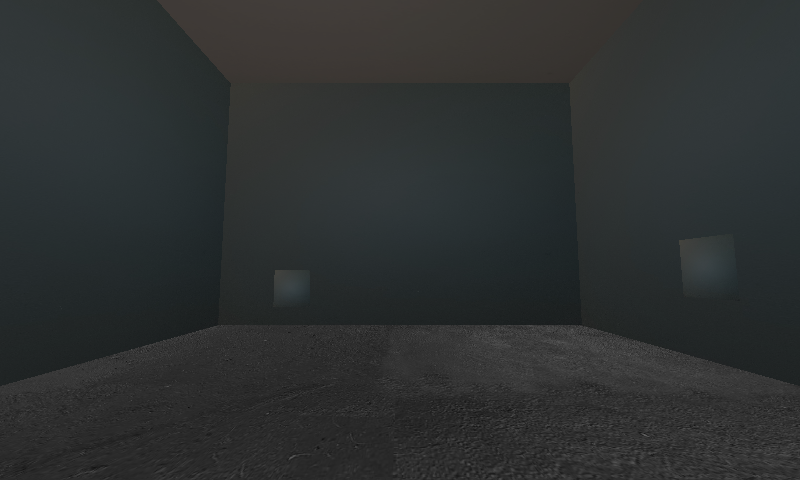
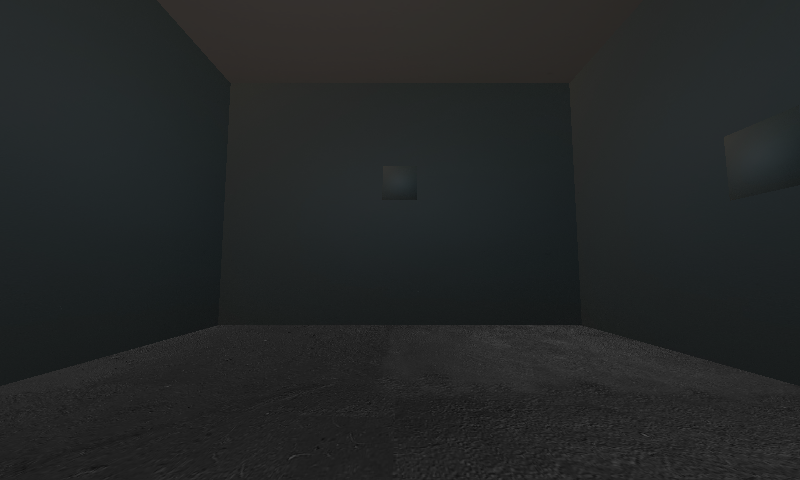
before fix for last failing test

Changed region(s): [[0.8438, 0.5, 0.9062, 0.5938], [0.3438, 0.5625, 0.375, 0.625]]

diff --git a/ExploringGame.Tests/RoomLightingGroupTests.cs b/ExploringGame.Tests/RoomLightingGroupTests.cs
@@ -1,5 +1,7 @@
 using ExploringGame.GeometryBuilder.Shapes;
 using ExploringGame.GeometryBuilder.Shapes.Furniture;
+using ExploringGame.GeometryBuilder.Shapes.Rooms.BasementRooms;
+using ExploringGame.GeometryBuilder.Shapes.Rooms.UpstairsRooms;
 using ExploringGame.GeometryBuilder.Shapes.WorldSegments;
 using ExploringGame.LevelControl;
 using ExploringGame.Logics;
@@ -452,61 +454,47 @@ public class RoomLightingGroupTests
     {
         // Arrange
         var basement = new BasementWorldSegment(null);
-        
+
         using var game = new TestGame(basement, framesToRun: 200, testAssertion: (g, gameTime) =>
         {
+            // Turn on only Basement light initially
+            if (gameTime.TotalGameTime.TotalMilliseconds < 50)
+            {
+                g.SetAllLights(l => l.Room is Basement);
+                return TestResult.CONTINUE;
+            }
+
             if (gameTime.TotalGameTime.TotalMilliseconds > 100 && gameTime.TotalGameTime.TotalMilliseconds < 150)
             {
                 var loadedLevelData = g.GetService<LoadedLevelData>();
-                
-                // Find a door
+
+                // Find the door between basement stairs and upstairs hall
                 var door = loadedLevelData.LoadedSegments
                     .SelectMany(ld => ld.WorldSegment.TraverseAllChildren())
                     .OfType<Door>()
-                    .FirstOrDefault();
-                
-                if (door != null)
-                {
-                    var allRooms = loadedLevelData.RoomGraph.GetAllRooms();
-                    
-                    // Get light data before door state change
-                    var lightDataBefore = allRooms
-                        .Where(r => loadedLevelData.LightingCalculator.RoomLightGraph.TryGet(r, out _))
-                        .Select(r =>
-                        {
-                            loadedLevelData.LightingCalculator.RoomLightGraph.TryGet(r, out var ld);
-                            return new { Room = r, Light = ld.TotalLight };
-                        })
-                        .ToList();
-                    
-                    // Toggle door (this should trigger recalculation)
-                    door.Open = !door.Open;
-                    
-                    // The calculator should have called RecalculateLightLevel on affected rooms
-                    // Verify at least one room's cached light value changed
-                    bool anyChanged = false;
-                    foreach (var item in lightDataBefore)
-                    {
-                        if (loadedLevelData.LightingCalculator.RoomLightGraph.TryGet(item.Room, out var lightData))
-                        {
-                            if (lightData.TotalLight != item.Light)
-                            {
-                                anyChanged = true;
-                                break;
-                            }
-                        }
-                    }
-                    
-                    // At least one room should have changed light levels
-                    Assert.True(anyChanged, "Door state change should trigger light recalculation");
-                }
-                
+                    .FirstOrDefault(d => d.StateKey == StateKey.BasementStairsDoorOpen);
+
+                Assert.NotNull(door);
+
+                var allRooms = loadedLevelData.RoomGraph.GetAllRooms().ToList();
+
+                var upstairsHall = allRooms.OfType<UpstairsHall>().Single();
+                var originalLight = loadedLevelData.LightingCalculator.RoomLightGraph.Get(upstairsHall);
+                var beforeDoorState = door.Open;
+
+                // Open the door (this should trigger recalculation)
+                door.Open = true;
+
+                var changedLight = loadedLevelData.LightingCalculator.RoomLightGraph.Get(upstairsHall);
+                Assert.True(changedLight.TotalLight > originalLight.TotalLight, 
+                    $"Opening the door should increase light in the upstairs hall. Before: {originalLight.TotalLight}, After: {changedLight.TotalLight}");
+
                 return TestResult.PASS;
             }
-            
+
             return TestResult.CONTINUE;
         });
-        
+
         game.Run();
     }
     

diff --git a/ExploringGame.Tests/RoomLightingTests.cs b/ExploringGame.Tests/RoomLightingTests.cs
@@ -13,17 +13,6 @@ namespace ExploringGame.Tests;
 
 public class RoomLightingTests
 {
-    private void SetAllLights(LoadedLevelData loadedLevelData, Func<ILightSource,bool> shouldTurnOn)
-    {
-        var allLights = loadedLevelData.LoadedSegments
-            .SelectMany(ld => ld.WorldSegment.TraverseAllChildren())
-            .OfType<ILightSource>()
-            .ToArray();
-
-        foreach (var light in allLights)
-            light.On = shouldTurnOn(light);
-    }
-
     [Fact]
     public void AllRoomsHaveMinimalLightWithNoLightsOn()
     {
@@ -36,7 +25,7 @@ public class RoomLightingTests
             // On first update after initialization, turn off all lights in ALL segments
             if (gameTime.TotalGameTime.TotalMilliseconds < 50)
             {
-                SetAllLights(g.GetService<LoadedLevelData>(), light => false);
+                g.SetAllLights(light => false);
                 return TestResult.CONTINUE;
             }
 
@@ -88,7 +77,7 @@ public class RoomLightingTests
             // On first update, configure lights
             if (gameTime.TotalGameTime.TotalMilliseconds < 50)
             {
-                SetAllLights(loadedLevelData, l=> l.Room is BasementOffice);
+                g.SetAllLights(l=> l.Room is BasementOffice);
 
                 lightsConfigured = true;
                 return TestResult.CONTINUE;
@@ -132,7 +121,7 @@ public class RoomLightingTests
             // On first update, configure lights
             if (gameTime.TotalGameTime.TotalMilliseconds < 50)
             {
-                SetAllLights(loadedLevelData, l => l.Room is BasementOffice);
+                g.SetAllLights(l => l.Room is BasementOffice);
 
                 basementOffice = basement.TraverseAllChildren().OfType<BasementOffice>().First();
                 basementRoom = basement.TraverseAllChildren().OfType<Basement>().First();
@@ -186,7 +175,7 @@ public class RoomLightingTests
             {
                 var loadedLevelData = g.GetService<LoadedLevelData>();
 
-                SetAllLights(loadedLevelData, l => l.Room is BasementOffice);
+                g.SetAllLights(l => l.Room is BasementOffice);
 
                 // Find rooms in the chain by type
                 var allRooms = loadedLevelData.LoadedSegments

diff --git a/ExploringGame.Tests/TestHelpers/TestGame.cs b/ExploringGame.Tests/TestHelpers/TestGame.cs
@@ -1,4 +1,5 @@
 using ExploringGame.GeometryBuilder.Shapes.WorldSegments;
+using ExploringGame.LevelControl;
 using ExploringGame.Logics;
 using Microsoft.Xna.Framework;
 using Microsoft.Xna.Framework.Graphics;
@@ -32,6 +33,9 @@ public class TestGame : Game1
     public TestGame(WorldSegment worldSegment, int framesToRun, Func<TestGame, GameTime, TestResult> testAssertion = null) 
         : base(worldSegment)
     {
+        // Set higher default ambient light for visual tests (so rooms without lighting data are visible)
+        LightIntensity.DefaultAmbientLight = LightIntensity.IndoorLight;
+
         MockPlayerInput = new MockPlayerInput();
         _framesRemaining = framesToRun;
         _testAssertion = testAssertion;
@@ -213,4 +217,17 @@ public class TestGame : Game1
         }
         base.Dispose(disposing);
     }
+
+    public void SetAllLights(Func<ILightSource, bool> shouldTurnOn)
+    {
+        var loadedLevelData = GetService<LoadedLevelData>();
+        var allLights = loadedLevelData.LoadedSegments
+            .SelectMany(ld => ld.WorldSegment.TraverseAllChildren())
+            .OfType<ILightSource>()
+            .ToArray();
+
+        foreach (var light in allLights)
+            light.On = shouldTurnOn(light);
+    }
+
 }

diff --git a/ExploringGame/Rendering/RenderEffect.cs b/ExploringGame/Rendering/RenderEffect.cs
@@ -1,4 +1,5 @@
-using ExploringGame.Services;
+using ExploringGame.Logics;
+using ExploringGame.Services;
 using ExploringGame.Texture;
 using Microsoft.Xna.Framework;
 using Microsoft.Xna.Framework.Content;
@@ -104,13 +105,16 @@ public class BasicRenderEffect : RenderEffect<BasicEffect>
 
     private Vector3 AmbientLight(ShapeBuffer shapeBuffer)
     {
+
+        var brightness = LightIntensity.DefaultAmbientLight; 
         var lightingGroup = shapeBuffer.LightingGroup;
         if (lightingGroup != null && _roomLightingCalculator.RoomLightGraph.TryGet(lightingGroup, out var lightData))
         {
-            float brightness = 0.05f + (lightData.TotalLight / 10.0f);
-            return new Vector3(brightness, brightness, brightness);
+            brightness += lightData.TotalLight;
         }
-        return new Vector3(0.3f, 0.3f, 0.3f);
+
+        brightness /= 10f;
+        return new Vector3(brightness, brightness, brightness);
     }
 }   
 

diff --git a/ExploringGame/Logics/LightIntensity.cs b/ExploringGame/Logics/LightIntensity.cs
@@ -45,4 +45,9 @@ public static class LightIntensity
     /// Extremely bright - blindingly bright (10.0)
     /// </summary>
     public const float ExtremelyBright = 10f;
+
+    /// <summary>
+    /// Default ambient light level for rooms without lighting data.
+    /// </summary>
+    public static float DefaultAmbientLight { get; set; } = Darkness;
 }
